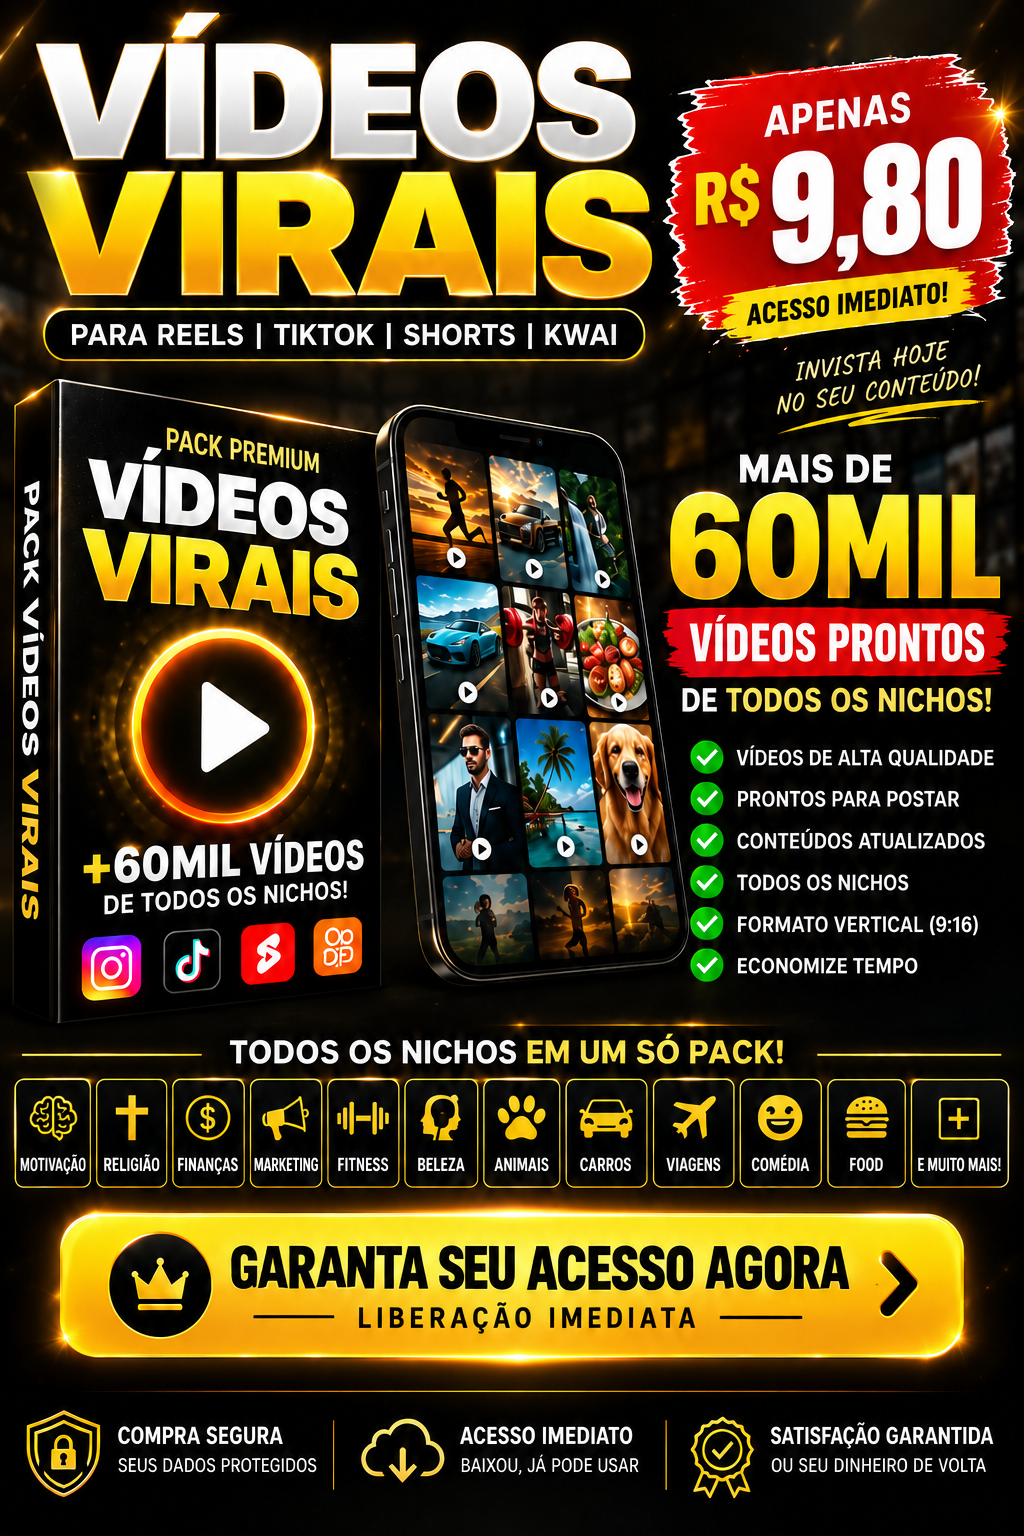
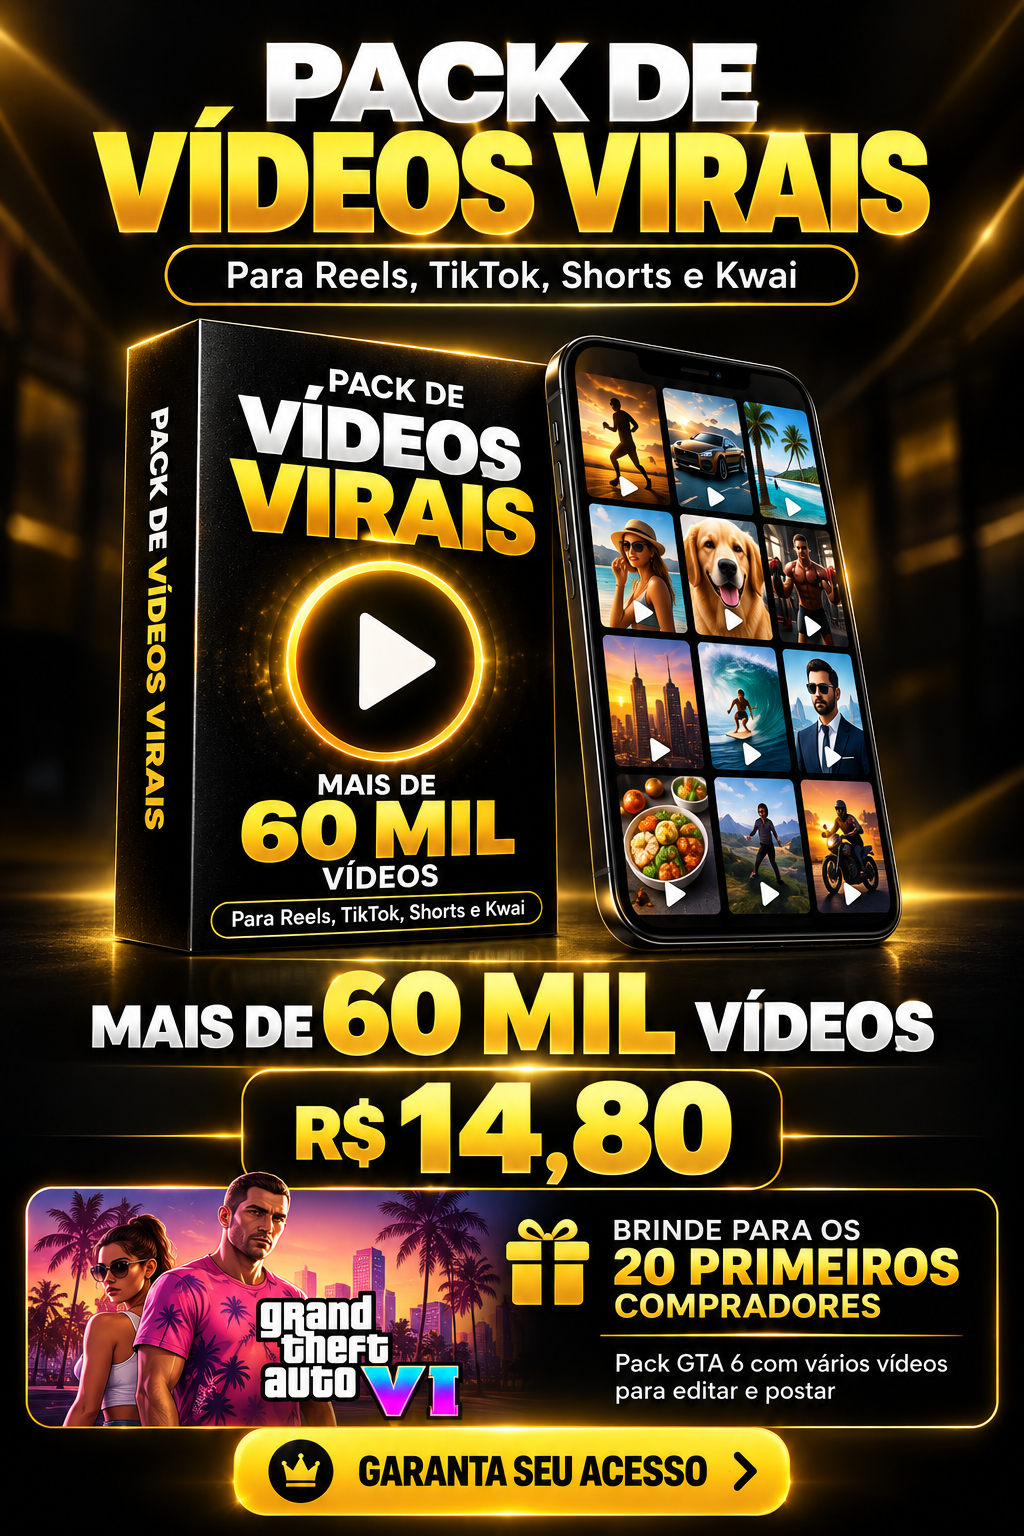
atualização

diff --git a/index.html b/index.html
@@ -53,60 +53,21 @@
 
 
 <!-- Meta Pixel Code -->
-
 <script>
-
-  !function(f,b,e,v,n,t,s)
-
-  {if(f.fbq)return;n=f.fbq=function(){n.callMethod?
-
-  n.callMethod.apply(n,arguments):n.queue.push(arguments)};
-
-  if(!f._fbq)f._fbq=n;n.push=n;n.loaded=!0;n.version='2.0';
-
-  n.queue=[];t=b.createElement(e);t.async=!0;
-
-  t.src=v;s=b.getElementsByTagName(e)[0];
-
-  s.parentNode.insertBefore(t,s)}(window, document,'script',
-
-  'https://connect.facebook.net/en_US/fbevents.js');
-
-
-
-  fbq('init', '1203006821752104');
-
-  fbq('track', 'PageView');
-
-  fbq('track', 'ViewContent', {
-    content_name: 'Pack de Vídeos Virais',
-    content_type: 'product',
-    value: 9.80,
-    currency: 'BRL'
-  });
-
+!function(f,b,e,v,n,t,s)
+{if(f.fbq)return;n=f.fbq=function(){n.callMethod?
+n.callMethod.apply(n,arguments):n.queue.push(arguments)};
+if(!f._fbq)f._fbq=n;n.push=n;n.loaded=!0;n.version='2.0';
+n.queue=[];t=b.createElement(e);t.async=!0;
+t.src=v;s=b.getElementsByTagName(e)[0];
+s.parentNode.insertBefore(t,s)}(window, document,'script',
+'https://connect.facebook.net/en_US/fbevents.js');
+fbq('init', '4560446237524756');
+fbq('track', 'PageView');
 </script>
-
-
-
-<noscript>
-
-  <img
-
-    height="1"
-
-    width="1"
-
-    style="display:none"
-
-    src="https://www.facebook.com/tr?id=1203006821752104&ev=PageView&noscript=1"
-
-    alt=""
-
-  />
-
-</noscript>
-
+<noscript><img height="1" width="1" style="display:none"
+src="https://www.facebook.com/tr?id=4560446237524756&ev=PageView&noscript=1"
+/></noscript>
 <!-- End Meta Pixel Code -->
 
 
@@ -243,7 +204,7 @@
 
                 <span class="currency">R$</span>
 
-                <strong>9,80</strong>
+                <strong>14,80</strong>
 
               </div>
 
@@ -315,7 +276,7 @@
 
             <img
 
-              src="pack-videos.png"
+              src="PACK-VIDEOS.png"
 
               alt="Pack Premium de Vídeos Virais"
 
@@ -1271,6 +1232,19 @@
 
     ====================================================== -->
 
+    <section class="bonus-section" aria-labelledby="bonus-title">
+  <div class="container bonus-grid">
+    <div class="bonus-copy">
+      <span class="bonus-tag">🎁 PRESENTE ESPECIAL</span>
+      <h2 id="bonus-title">Bônus para os <span>20 primeiros compradores</span></h2>
+      <p>Ao adquirir o Pack de Vídeos Virais, os 20 primeiros compradores ganham um <strong>pack de GTA 6</strong> com vídeos para editar e postar.</p>
+      <p class="bonus-detail">Bônus limitado aos 20 primeiros compradores.</p>
+      <a href="#" class="btn-primary btn-checkout"><span>QUERO GARANTIR MEU PACK</span></a>
+    </div>
+    <div class="bonus-art"><img src="bonus-gta6.png" alt="Bônus pack GTA 6 para os 20 primeiros compradores" loading="lazy" /></div>
+  </div>
+</section>
+
     <section class="section offer-section">
 
 
@@ -1357,7 +1331,7 @@
 
               <span>R$</span>
 
-              <strong>9,80</strong>
+              <strong>14,80</strong>
 
             </div>
 
@@ -1615,7 +1589,7 @@
 
                 Não. A oferta apresentada nesta página é de pagamento único de
 
-                R$ 9,80.
+                R$ 14,80.
 
               </p>
 
@@ -1761,7 +1735,7 @@
 
           MAIS DE 60 MIL VÍDEOS POR APENAS
 
-          <span>R$ 9,80</span>
+          <span>R$ 14,80</span>
 
         </h2>
 
@@ -1875,7 +1849,7 @@
 
       <small>POR APENAS</small>
 
-      <strong>R$ 9,80</strong>
+      <strong>R$ 14,80</strong>
 
     </div>
 

diff --git a/style.css b/style.css
@@ -2324,3 +2324,14 @@ footer {
   }
 
 }
+/* Bônus GTA 6 */
+.bonus-section { padding: 90px 0; background: #0d0b11; }
+.bonus-grid { display: grid; grid-template-columns: 1fr minmax(260px, 420px); align-items: center; gap: 64px; }
+.bonus-copy { max-width: 620px; }
+.bonus-tag { display: inline-block; color: #ffcf33; font-weight: 800; letter-spacing: .1em; font-size: .85rem; margin-bottom: 18px; }
+.bonus-copy h2 { font-size: clamp(2rem, 4vw, 3.5rem); line-height: 1.1; margin: 0 0 22px; color: #fff; }
+.bonus-copy h2 span { color: #ffc600; }
+.bonus-copy p { color: #ddd; font-size: 1.08rem; line-height: 1.7; margin-bottom: 18px; }
+.bonus-copy .bonus-detail { color: #f5c640; font-size: .9rem; margin-bottom: 26px; }
+.bonus-art img { display: block; width: 100%; height: auto; border-radius: 20px; box-shadow: 0 15px 55px #f0008650; }
+@media (max-width: 700px) { .bonus-section { padding: 60px 0; } .bonus-grid { grid-template-columns: 1fr; gap: 30px; } .bonus-art { max-width: 400px; margin: auto; } }

diff --git a/script.js b/script.js
@@ -4,7 +4,7 @@ document.addEventListener("DOMContentLoaded", () => {
   // CHECKOUT
   // =====================================================
 
-  const CHECKOUT_URL = "https://pay.hotmart.com/H107721724X?checkoutMode=10";
+  const CHECKOUT_URL = "https://pay.hotmart.com/H107721724X";
 
   const checkoutButtons =
     document.querySelectorAll(".btn-checkout");
